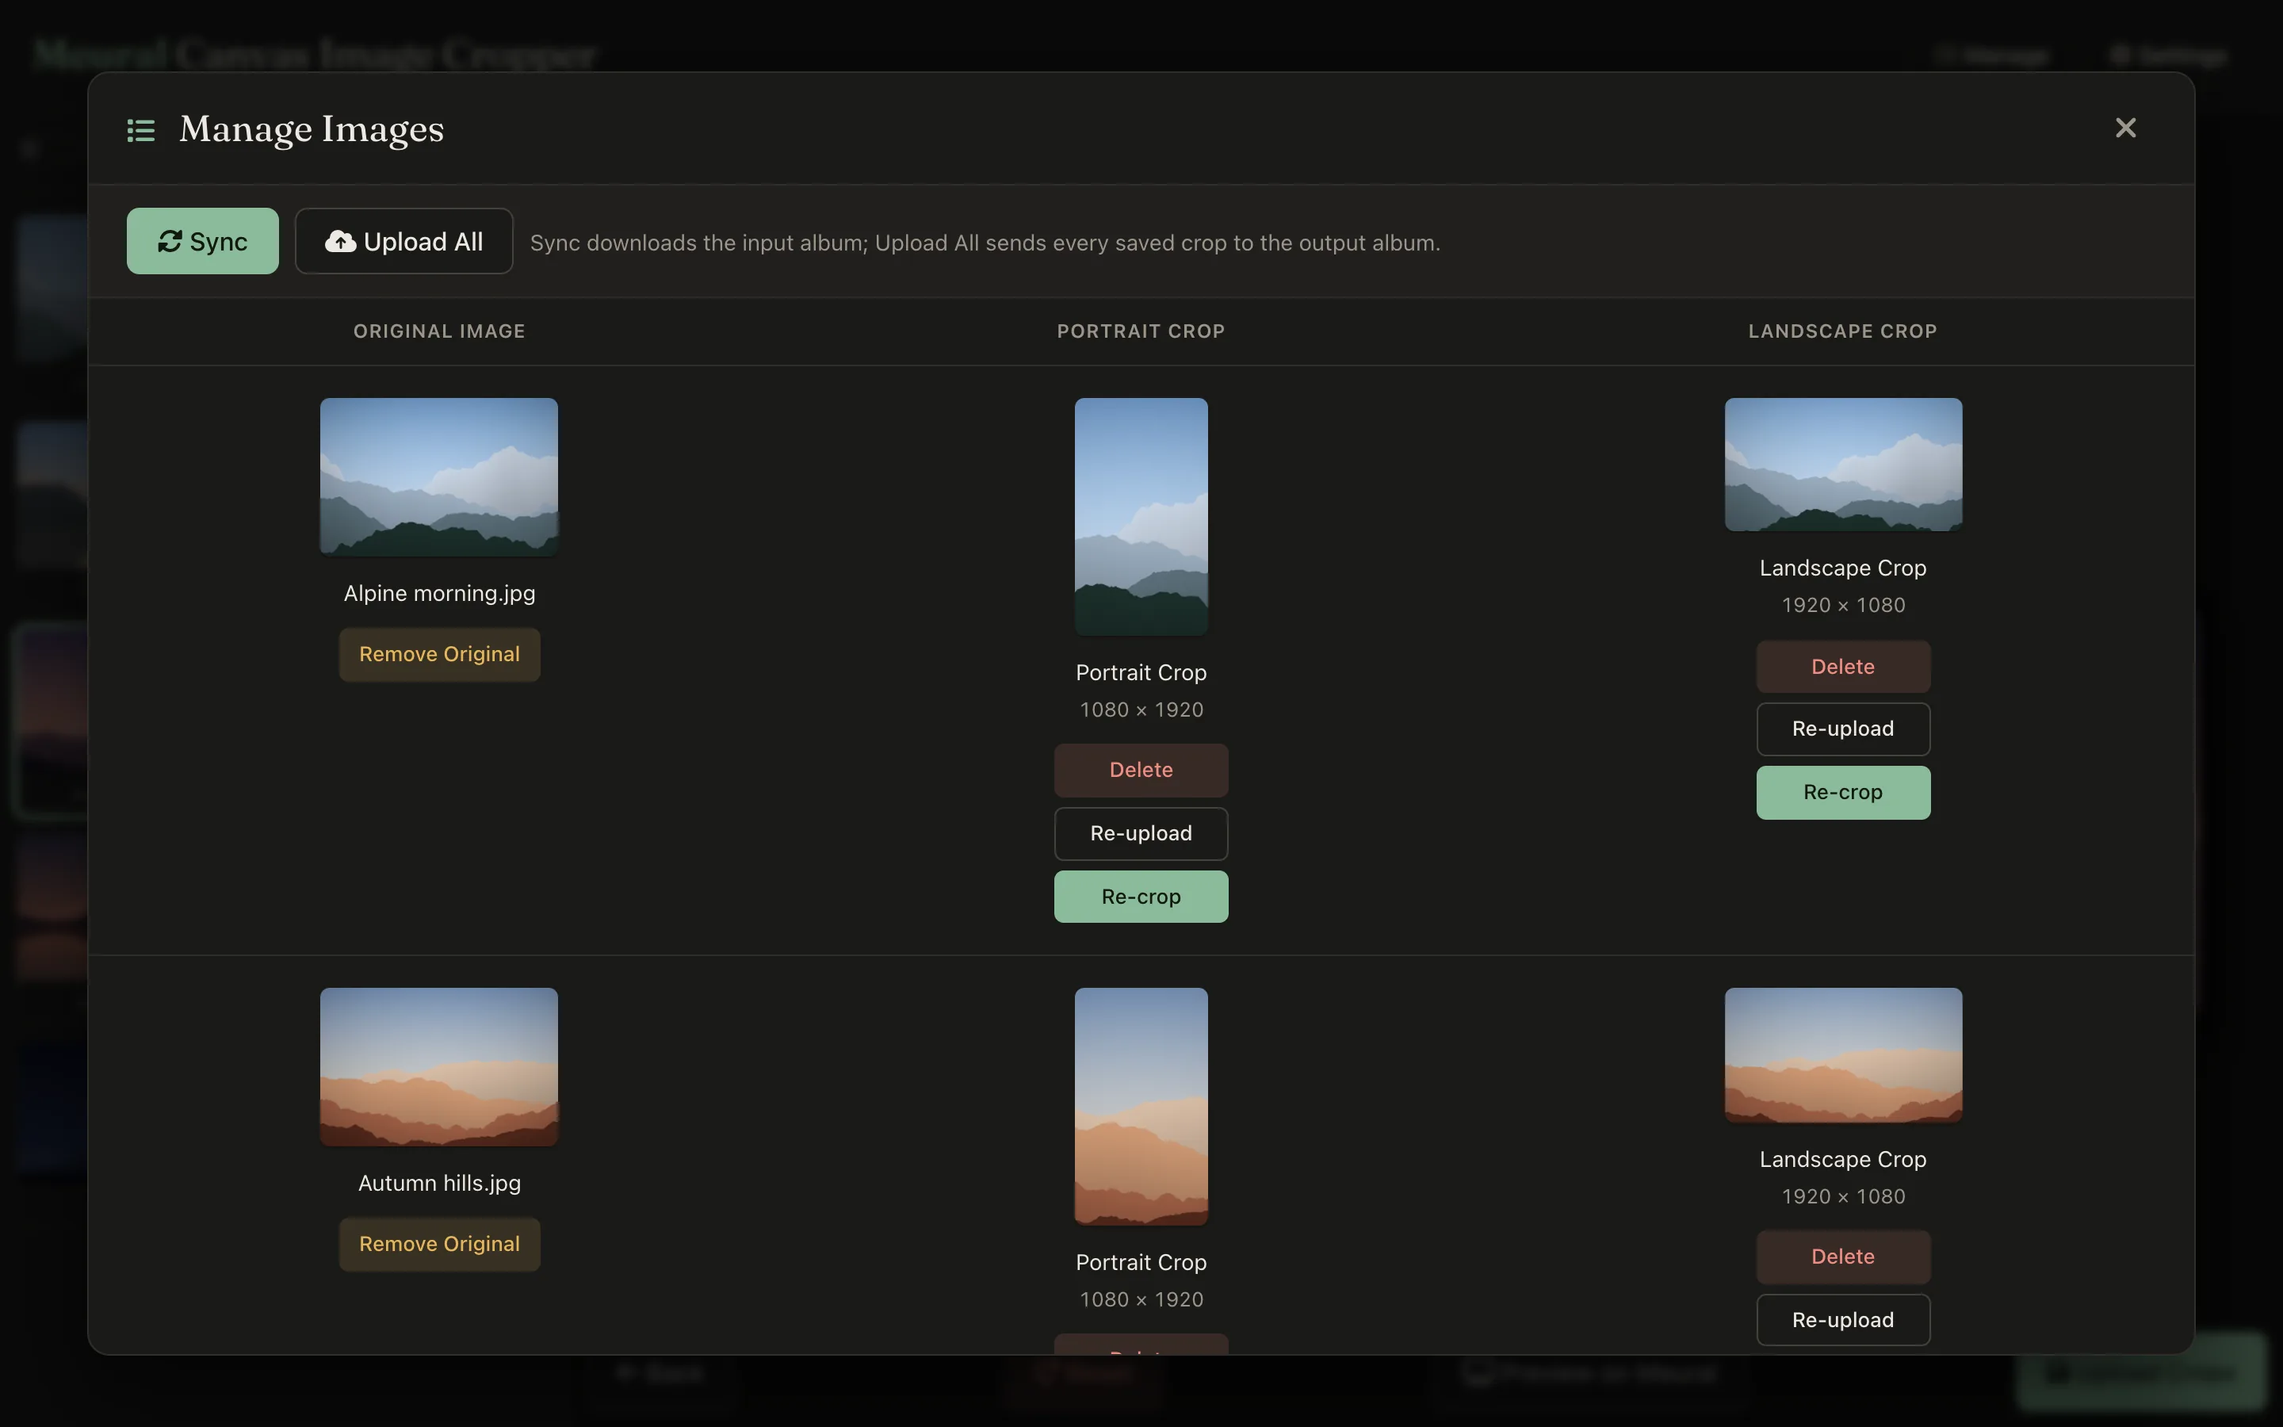
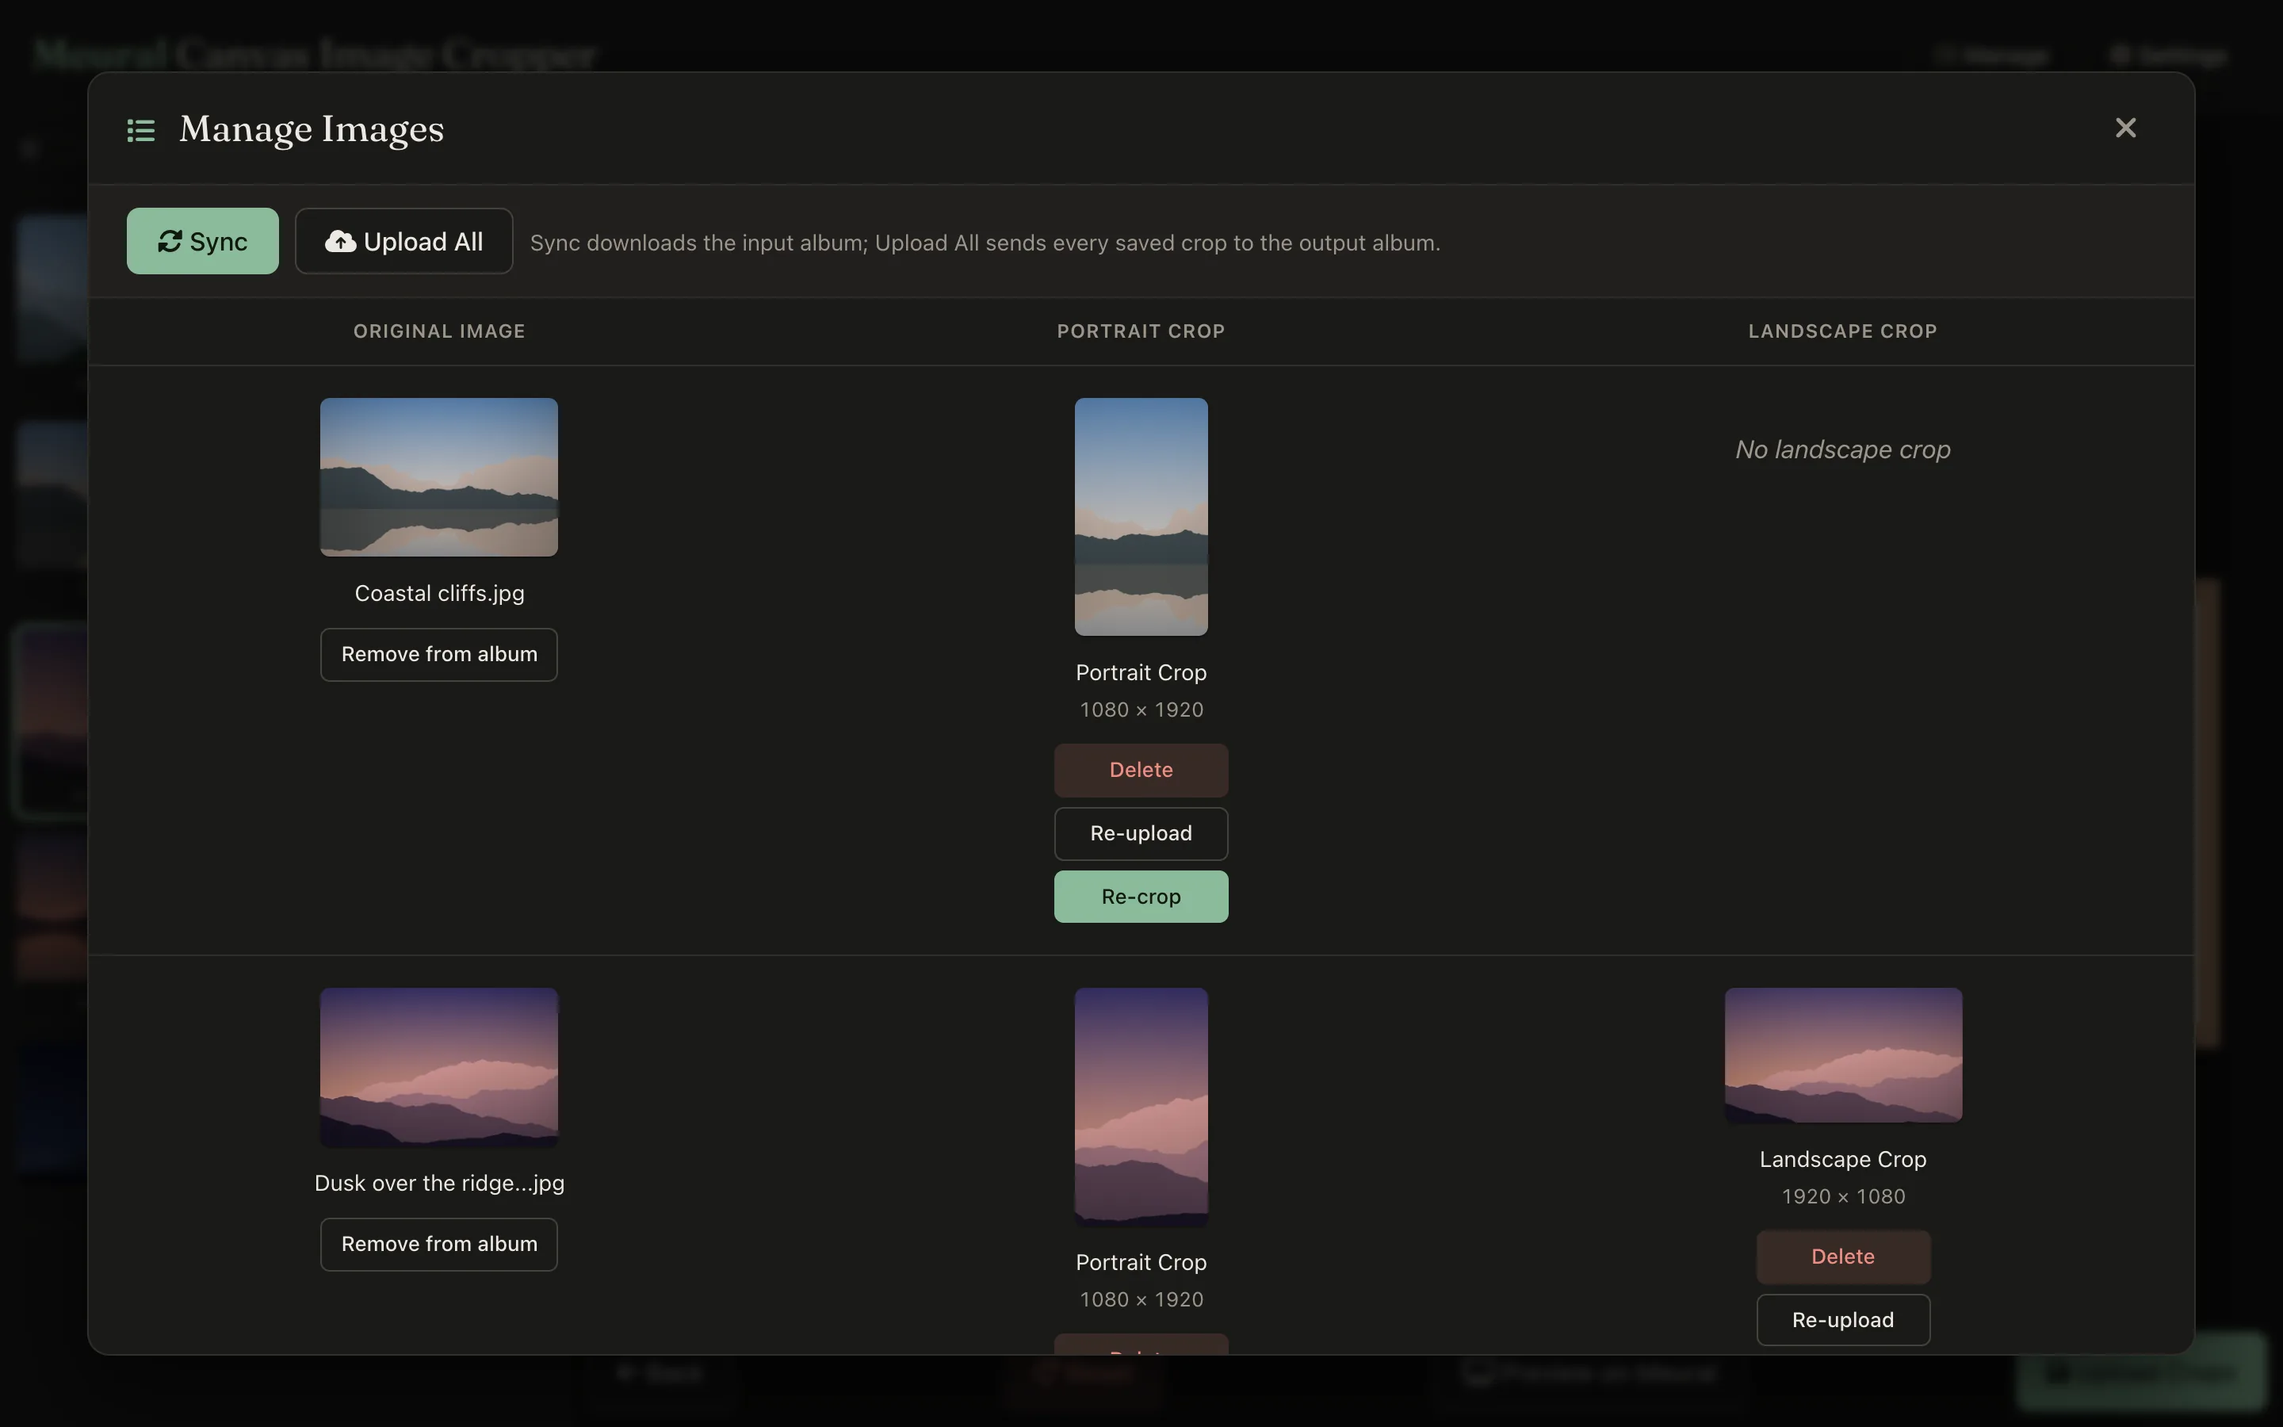
Simplify Manage: drop Recent activity, rename Remove Original
"Remove Original" read as deleting the photo; it only takes it out of the
input album, so it's now "Remove from album" with a confirmation that says
nothing is deleted. Recent activity took up most of the modal; failures are
still reported in messages, and pressing Sync or Upload All again finishes
the work.

Claude-Session: https://claude.ai/code/session_01YKwrgkXWZ6njwZML91ByMm

diff --git a/app/static/js/api-service.js b/app/static/js/api-service.js
@@ -8,7 +8,6 @@
 let syncInProgress = false;
 let uploadInProgress = false;
 let lastSyncSeen;  // ID of the sync the image list reflects
-let jobHistory = [];
 let lastJobChange;
 
 /**
@@ -27,13 +26,11 @@ async function runJob(kind, onProgress) {
 async function followJob(job, onProgress) {
     while (job.status === 'running') {
         onProgress?.(job);
-        renderJobHistory([job, ...jobHistory.filter(item => item.id !== job.id)]);
         await new Promise(resolve => setTimeout(resolve, 500));
         const poll = await fetch(`/jobs/${job.id}`);
-        if (!poll.ok) throw new Error(`Lost track of job ${job.id}; check Recent activity`);
+        if (!poll.ok) throw new Error(`Lost track of job ${job.id}`);
         job = (await poll.json()).job;
     }
-    renderJobHistory([job, ...jobHistory.filter(item => item.id !== job.id)]);
     if (job.status === 'failed' || job.status === 'interrupted') throw new Error(job.error || `${job.kind} failed`);
     if (job.status === 'cancelled') {
         showToast('Job cancelled. Completed images were kept.', 'info');
@@ -41,100 +38,6 @@ async function followJob(job, onProgress) {
     }
     return job.result;
 }
-
-/** Keep controls stable while progress updates, including open error details. */
-function renderJobHistory(history) {
-    jobHistory = history;
-    const list = document.getElementById('job-history-list');
-    if (!list) return;
-    if (!history.length) {
-        list.textContent = 'No background jobs yet.';
-        return;
-    }
-    if (!list.querySelector('[data-job-id]')) list.replaceChildren();
-    const existing = new Map(Array.from(list.children).map(row => [Number(row.dataset.jobId), row]));
-    for (const job of history) {
-        let row = existing.get(job.id);
-        if (!row) {
-            row = makeElement('div', 'job-row');
-            row.dataset.jobId = job.id;
-            const summary = makeElement('div', 'job-summary');
-            const actions = makeElement('div', 'job-actions');
-            const cancel = makeElement('button', 'btn btn-meural btn-secondary', 'Cancel');
-            const retry = makeElement('button', 'btn btn-meural btn-secondary', 'Retry failed');
-            cancel.addEventListener('click', async () => {
-                cancel.disabled = true;
-                try {
-                    await postJSON(`/jobs/${job.id}/cancel`, {});
-                    await watchBackgroundJobs();
-                } catch (error) { showToast(error.message, 'error'); cancel.disabled = false; }
-            });
-            retry.addEventListener('click', () => retryBackgroundJob(job.id));
-            actions.append(cancel, retry);
-            const details = makeElement('details', 'job-errors');
-            details.append(makeElement('summary', '', 'Image errors'), makeElement('ul'));
-            row.append(summary, actions, details);
-            list.append(row);
-        }
-        const seconds = Math.floor(job.elapsed_seconds || 0);
-        const elapsed = `${Math.floor(seconds / 60)}m ${seconds % 60}s`;
-        const errors = Object.entries(job.errors || {});
-        const status = job.cancel_requested && job.status === 'running' ? 'Stopping after current images' :
-            job.status === 'done' && errors.length ? 'Finished with errors' : job.status;
-        row.querySelector('.job-summary').textContent =
-            `${job.kind === 'sync' ? 'Sync' : 'Upload'} #${job.id} · ${status} · ${job.done}/${job.total} · ${elapsed}${job.error ? ' · ' + job.error : ''}`;
-        const [cancel, retry] = row.querySelectorAll('button');
-        cancel.hidden = job.status !== 'running';
-        cancel.disabled = job.cancel_requested;
-        const incomplete = ['failed', 'cancelled', 'interrupted'].includes(job.status);
-        retry.hidden = job.status === 'running' || !(incomplete || errors.length);
-        retry.disabled = history.some(item => item.status === 'running');
-        retry.textContent = incomplete ? 'Retry unfinished' : 'Retry failed';
-        const details = row.querySelector('details');
-        details.hidden = !errors.length;
-        const signature = JSON.stringify(errors);
-        if (details.dataset.errors !== signature) {
-            details.dataset.errors = signature;
-            details.querySelector('ul').replaceChildren(...errors.map(([id, error]) => {
-                const image = window.APP_STATE.imageList?.find(item => item.asset_id === id);
-                return makeElement('li', '', `${image?.original_filename || id}: ${error}`);
-            }));
-        }
-        existing.delete(job.id);
-    }
-    for (const row of existing.values()) row.remove();
-    // Insert existing nodes in newest-first order without replacing them.
-    history.forEach((job, index) => {
-        const row = list.querySelector(`[data-job-id="${job.id}"]`);
-        if (list.children[index] !== row) list.insertBefore(row, list.children[index] || null);
-    });
-}
-
-async function retryBackgroundJob(id) {
-    if (syncInProgress || uploadInProgress || window.APP_STATE.cropBusy) return;
-    const job = jobHistory.find(item => item.id === id);
-    if (!job) return;
-    syncInProgress = window.APP_STATE.syncing = job.kind === 'sync';
-    uploadInProgress = job.kind === 'upload-all';
-    try {
-        const data = await postJSON(`/jobs/${id}/retry`, {});
-        await followJob(data.job);
-    } catch (error) {
-        showToast('Retry failed: ' + error.message, 'error');
-    } finally {
-        syncInProgress = uploadInProgress = window.APP_STATE.syncing = false;
-        await refreshImages();
-        await watchBackgroundJobs();
-    }
-}
-
-// Follow scheduled jobs and cancellations promptly while Manage is open.
-let checkingJobs = false;
-setInterval(async () => {
-    if (checkingJobs || document.hidden || window.ELEMENTS.manageModalEl?.style.display === 'none') return;
-    checkingJobs = true;
-    try { await watchBackgroundJobs(); } finally { checkingJobs = false; }
-}, 1000);
 
 /** "Label 3/10" while a job runs, once its total is known. */
 function progressLabel(label, job) {
@@ -212,7 +115,6 @@ async function syncWithImmich() {
 async function watchBackgroundJobs() {
     try {
         const data = await (await fetch('/jobs')).json();
-        renderJobHistory(data.history || []);
         showJobRunning(!!data.running || syncInProgress || uploadInProgress);
         const change = (data.history || []).filter(job => job.status !== 'running')
             .map(job => `${job.id}:${job.status}`).join(',');

diff --git a/app/static/js/manage-service.js b/app/static/js/manage-service.js
@@ -103,7 +103,9 @@ function createManageTableRow(image) {
     const info = makeElement('div', 'manage-image-info');
     info.append(makeElement('div', 'manage-image-filename', truncateFilename(name, 25)));
     const actions = makeElement('div', 'manage-image-actions');
-    actions.append(manageButton('delete-original', 'Remove Original', button => deleteOriginalImage(identifier, button)));
+    const remove = manageButton('remove-from-album', 'Remove from album', button => removeFromInputAlbum(identifier, button));
+    remove.title = 'Take this photo out of the input album. It stays in your Immich library.';
+    actions.append(remove);
     cell.append(preview, info, actions);
     original.append(cell);
     row.append(original);
@@ -198,12 +200,13 @@ function recropImage(identifier, orientation) {
 }
 
 /**
- * Delete original image from source album
+ * Take an image out of the input album; the photo itself stays in Immich
  */
-async function deleteOriginalImage(identifier, button) {
+async function removeFromInputAlbum(identifier, button) {
     const confirmed = await confirmDialog(
-        'Remove this image from the source album? The original photo will remain in your Immich library.',
-        'Remove', true
+        'Take this photo out of the input album? Nothing is deleted: the photo stays in your Immich library, ' +
+        'and crops already uploaded stay in the output album.',
+        'Remove from album'
     );
 
     if (!confirmed) return;
@@ -212,7 +215,7 @@ async function deleteOriginalImage(identifier, button) {
     try {
         // Show loading state
         if (button) button.disabled = true;
-        if (button) button.innerHTML = '<i class="fas fa-spinner fa-spin"></i> Deleting...';
+        if (button) button.innerHTML = '<i class="fas fa-spinner fa-spin"></i> Removing…';
 
         await postJSON('/delete-original', { identifier }, 'DELETE');
         document.querySelector(`tr[data-identifier="${identifier}"]`)?.remove();
@@ -222,10 +225,10 @@ async function deleteOriginalImage(identifier, button) {
             window.APP_STATE.currentImage = null;
             showView('no-image-view');
         }
-        showToast('Removed from source album', 'success');
+        showToast('Removed from the input album', 'success');
     } catch (error) {
-        console.error('Error deleting original image:', error);
-        showToast(`Error deleting original image: ${error.message}`, 'error');
+        console.error('Error removing image from the input album:', error);
+        showToast(`Could not remove from the input album: ${error.message}`, 'error');
     } finally {
         // Reset button state
         if (button) {

diff --git a/app/static/styles.css b/app/static/styles.css
@@ -1039,12 +1039,12 @@ body {
 
 .manage-action-btn.delete { background: var(--danger-soft); color: var(--danger); }
 .manage-action-btn.delete:hover { background: var(--danger-solid); color: #ffffff; }
-.manage-action-btn.reupload { background: var(--surface); border-color: var(--border-strong); color: var(--text); }
-.manage-action-btn.reupload:hover { background: var(--surface-3); }
+.manage-action-btn.reupload,
+.manage-action-btn.remove-from-album { background: var(--surface); border-color: var(--border-strong); color: var(--text); }
+.manage-action-btn.reupload:hover,
+.manage-action-btn.remove-from-album:hover { background: var(--surface-3); }
 .manage-action-btn.recrop { background: var(--accent); color: var(--on-accent); }
 .manage-action-btn.recrop:hover { background: var(--accent-hover); }
-.manage-action-btn.delete-original { background: var(--warning-soft); color: var(--warning); }
-.manage-action-btn.delete-original:hover { border-color: var(--warning); }
 
 .manage-no-image {
     color: var(--text-muted);
@@ -1552,12 +1552,4 @@ body {
         box-shadow: none;
     }
 }
-.job-history { margin: 0 0 1rem; }
-.job-history h3 { font-size: 1rem; margin: 0 0 .5rem; }
-.job-row { display: flex; flex-wrap: wrap; align-items: center; gap: .5rem 1rem; padding: .65rem 0; border-bottom: 1px solid var(--border); }
-.job-summary { flex: 1 1 250px; font-size: .85rem; overflow-wrap: anywhere; }
-.job-actions { display: flex; gap: .5rem; }
-.job-errors { flex-basis: 100%; font-size: .85rem; overflow-wrap: anywhere; }
-.job-errors summary { cursor: pointer; }
-.job-actions button[hidden], .job-errors[hidden] { display: none; }
 .settings-frame { max-width: 280px; margin-bottom: 1rem; }

diff --git a/app/templates/index.html b/app/templates/index.html
@@ -187,11 +187,6 @@
                     </button>
                     <span class="manage-toolbar-help">Sync downloads the input album; Upload All sends every saved crop to the output album.</span>
                 </div>
-                <section class="job-history" aria-label="Recent background activity">
-                    <h3>Recent activity</h3>
-                    <p class="manage-toolbar-help">Cancel stops after current images finish. Retry picks up failed or unfinished images.</p>
-                    <div id="job-history-list"></div>
-                </section>
                 <div class="manage-table-container">
                     <div class="manage-table-loading" id="manage-table-loading">
                         <div class="spinner-border text-primary" role="status">

diff --git a/README.md b/README.md
@@ -280,7 +280,7 @@ display:
 | `asset.download` | Download originals into the cache |
 | `asset.upload` | Upload the rendered crops |
 | `albumAsset.create` | Add crops to the output album |
-| `albumAsset.delete` | Remove an image from the input album (Manage → Remove Original) |
+| `albumAsset.delete` | Take an image out of the input album (Manage → Remove from album); the photo itself stays in Immich |
 | `asset.delete` | Move a crop's old copy to the Immich trash when re-uploading it, skipping it or deleting it |
 | `face.read` (optional) | Start new crops on the people in the photo. Without it new crops start centered and everything else works; if you add it later, the next sync picks it up |
 
@@ -348,16 +348,10 @@ The crop editor is mouse and touch only. In dialogs, **Enter** confirms and
 - Progress shows on the Sync and Upload All buttons, and the Manage icon spins while either runs
 - Review, Meural previews and uploads share the same rendered JPEG cache
 
-#### Background Activity and Recovery
-Manage includes **Recent activity**, with counts, elapsed time and per-image
-errors for Sync and Upload All. **Cancel** stops new images from starting;
-in-flight downloads or uploads finish first, and completed work is kept.
-**Retry failed** processes only failed images. Cancelled jobs and jobs
-interrupted by a restart offer **Retry unfinished**, which also includes images
-that had not started. If a job failed before it could list its images, retry
-repeats album discovery. Retries use current saved crop selections. After
-changing Immich server or album settings, start a new job instead of retrying
-an old one.
+#### Recovery
+If Sync or Upload All fails partway, a message says how many images failed;
+press the button again to finish. Sync only downloads what is missing or
+changed, and Upload All only sends crops that aren't in Immich yet.
 
 Upload checkpoints are saved after the image reaches Immich, after it is added
 to the output album, and after the previous version is trashed. A retry resumes
@@ -420,7 +414,7 @@ All persistent state lives in one file, **`/config/crops/metadata.json`**:
   and removes the record. Sync removes records whose copy is no longer in the
   output album, so those crops count as not uploaded.
 - An upload interrupted partway keeps a `pending_upload` checkpoint until it
-  finishes (see [Background Activity and Recovery](#background-activity-and-recovery)).
+  finishes (see [Recovery](#recovery)).
 - Older installs that used `progress.json` and bare coordinates are migrated
   automatically on startup; the old file is renamed to `progress.json.migrated`.
 
